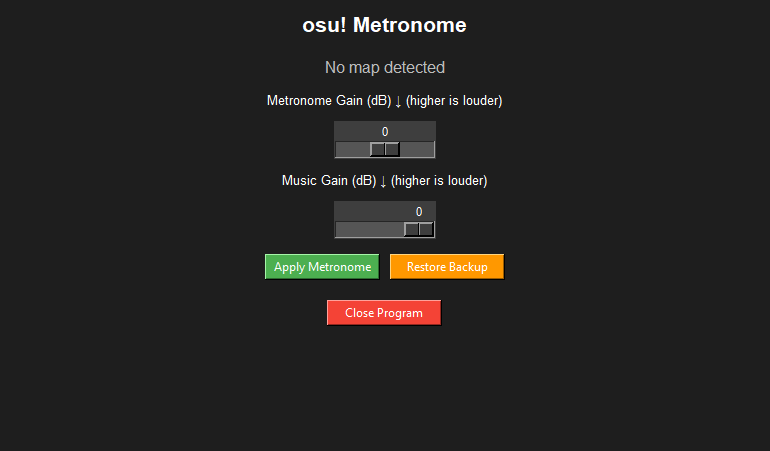
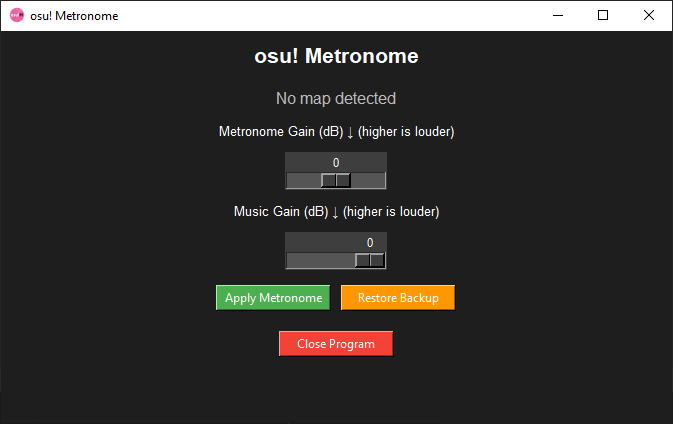
feat: Add Carousel component.

Changed region(s): [[0.312, 0.2146, 0.6865, 0.7358], [0.0, 0.0, 0.9985, 0.184], [0.4056, 0.7665, 0.5929, 0.8585]]

diff --git a/src/components/ui/Carousel.tsx b/src/components/ui/Carousel.tsx
@@ -1,0 +1,67 @@
+'use client';
+
+import { useState } from 'react';
+import Image from 'next/image';
+import { ChevronLeft, ChevronRight } from 'lucide-react';
+
+import IconButton from './IconButton';
+
+interface CarouselProps {
+  images: string[];
+}
+
+function Carousel({ images }: CarouselProps) {
+  const [current, setCurrent] = useState(0);
+
+  function prev() {
+    setCurrent((i) => (i - 1 + images.length) % images.length);
+  }
+
+  function next() {
+    setCurrent((i) => (i + 1) % images.length);
+  }
+
+  return (
+    <div className='relative h-72 w-full overflow-hidden rounded-sm border border-stone-800 bg-stone-900'>
+      {images.map((src, i) => (
+        <Image
+          src={src}
+          alt={`Screenshot #${i + 1}`}
+          fill
+          sizes='(max-width: 672px) 100vw, 620px'
+          className={`object-cover transition-opacity duration-200 ${i === current ? 'opacity-100' : 'opacity-0'}`}
+          key={src}
+        />
+      ))}
+      {images.length > 1 && (
+        <>
+          <IconButton
+            icon={ChevronLeft}
+            onClick={prev}
+            className='absolute left-2 top-1/2 -translate-y-1/2 z-10'
+          />
+          <IconButton
+            icon={ChevronRight}
+            onClick={next}
+            className='absolute right-2 top-1/2 -translate-y-1/2 z-10'
+          />
+          <div className='absolute bottom-3 left-1/2 z-10 flex -translate-x-1/2 items-center gap-1.5'>
+            {images.map((_, i) => (
+              <button
+                key={i}
+                onClick={() => {
+                  setCurrent(i);
+                }}
+                className={`h-1.5 w-1.5 cursor-pointer rounded-full transition-colors duration-200 ${
+                  i === current ? 'bg-yellow-500' : 'bg-stone-600 hover:bg-stone-400'
+                }`}
+              />
+            ))}
+          </div>
+        </>
+      )}
+    </div>
+  );
+}
+
+export default Carousel;

diff --git a/src/components/ui/IconButton.tsx b/src/components/ui/IconButton.tsx
@@ -1,0 +1,21 @@
+'use client';
+
+import { LucideIcon } from 'lucide-react';
+
+interface IconButtonProps extends React.ButtonHTMLAttributes<HTMLButtonElement> {
+  icon: LucideIcon;
+  iconSize?: number;
+}
+
+function IconButton({ icon: Icon, iconSize = 14, className, ...props }: IconButtonProps) {
+  return (
+    <button
+      className={`flex h-7 w-7 cursor-pointer items-center justify-center rounded-sm border border-stone-700 bg-stone-950/75 text-stone-400 transition-colors duration-200 hover:border-stone-600 hover:text-stone-200 ${className ?? ''}`.trim()}
+      {...props}
+    >
+      <Icon size={iconSize} />
+    </button>
+  );
+}
+
+export default IconButton;

diff --git a/src/components/ProjectModal.tsx b/src/components/ProjectModal.tsx
@@ -8,6 +8,7 @@ import { X, CodeXml, ExternalLink, GitPullRequest, AlertCircle, PencilLine } fro
 import SectionHeader from './SectionHeader';
 import ProjectTechStackList from './ProjectTechStackList';
 import Button from './ui/Button';
+import Carousel from './ui/Carousel';
 
 import { Project, PROJECT_STATUS_LABELS, PROJECT_TYPE_LABELS } from '@/types/project';
 
@@ -64,6 +65,11 @@ function ProjectModal({ item, onClose }: ProjectModalProps) {
               <p className='text-sm'>{item.tagline}</p>
             </section>
             <div className='px-6 pt-4 pb-6 stack-6'>
+              {item.images.length > 0 && (
+                <section>
+                  <Carousel images={item.images} />
+                </section>
+              )}
               <section className='stack-2'>
                 <SectionHeader title='Details' />
                 <div className='grid grid-cols-2 gap-4'>